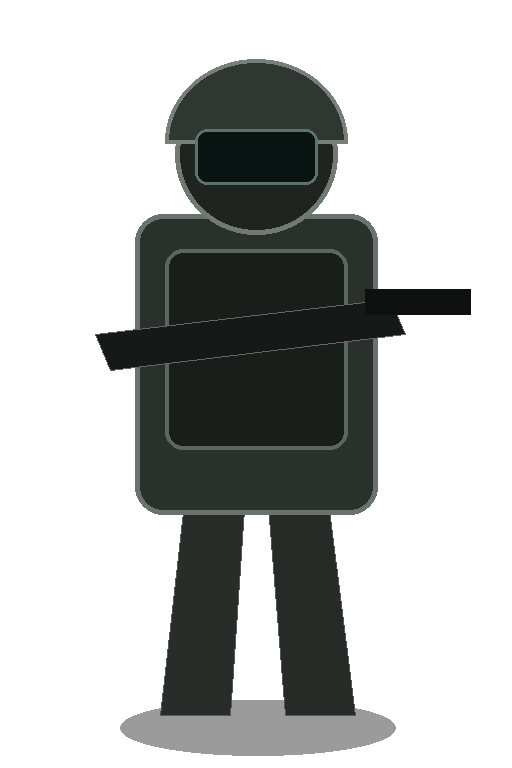
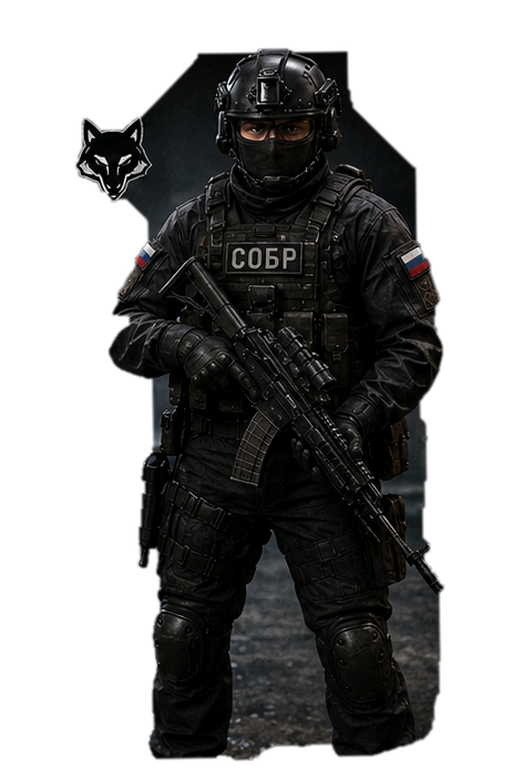
ver. 1.0

diff --git a/index.html b/index.html
@@ -18,7 +18,7 @@ button{font:inherit;color:#effff3;background:#14271b;border:1px solid #6c9878;pa
 @media(pointer:coarse),(max-width:900px){#touch{display:block}}@media(orientation:portrait) and (max-width:900px){#rotate{display:grid}}@media(max-width:700px){.menu{grid-template-columns:1fr}.portrait{max-height:38vh}}
 </style></head><body>
 <canvas id="g" width="960" height="540"></canvas>
-<section id="menu" class="screen"><div class="menu"><img class="portrait" src="assets/specter_portrait.jpg"><div><div class="sub">U.S. SPECIAL OPERATIONS</div><h1>SPECTER</h1><p class="brief">Power Restoration Update v0.9: the blacksite begins on emergency power. Locate the illuminated breaker beside the insertion point and press E to restore facility lighting. The lights flicker online by section, making navigation easier—but also making you easier for hostiles to spot.</p><div class="obj"><b>OPERATION BLACK VEIL</b><br>Eliminate all hostiles, recover the encrypted key, and reach extraction.</div><button id="start">BEGIN MISSION</button><button id="dos">DOSSIER</button><p class="small">Desktop: click to capture mouse, move horizontally and vertically to look, left-click fires, right-click or Q aims, WASD moves, R reloads, F toggles the flashlight, 1/2 swaps weapons, and E interacts with doors and power controls. Mobile controls remain available.</p></div></div></section>
+<section id="menu" class="screen"><div class="menu"><img class="portrait" src="assets/specter_portrait.jpg"><div><div class="sub">U.S. SPECIAL OPERATIONS</div><h1>SPECTER</h1><p class="brief">VOLK Enemy Model Update v1.0: hostile riflemen and heavy units now use the new VOLK Russian special-operations appearance, with black tactical armor, helmet systems, face coverings, AK-pattern rifles, Russian patches, and refreshed movement, firing, and fallen sprites. Facility power restoration remains active.</p><div class="obj"><b>OPERATION BLACK VEIL</b><br>Eliminate all hostiles, recover the encrypted key, and reach extraction.</div><button id="start">BEGIN MISSION</button><button id="dos">DOSSIER</button><p class="small">Desktop: click to capture mouse, move horizontally and vertically to look, left-click fires, right-click or Q aims, WASD moves, R reloads, F toggles the flashlight, 1/2 swaps weapons, and E interacts with doors and power controls. Mobile controls remain available.</p></div></div></section>
 <section id="dossier" class="screen hidden"><button id="back">RETURN</button><img src="assets/specter_turnaround.jpg"><img src="assets/specter_equipment.jpg"></section>
 <div id="rotate"><div><h2>ROTATE DEVICE</h2><p>Landscape orientation required.</p></div></div>
 <div id="touch"><div id="move" class="pad"><div class="ring"></div><div class="stick"></div></div><div id="look" class="pad"><div class="ring"></div><div class="stick"></div></div><div id="fire" class="btn">FIRE</div><div id="use" class="btn">USE</div><div id="reload" class="btn">R</div><div id="swap" class="btn">1/2</div><div id="aim" class="btn">AIM</div><div id="pause" class="btn">Ⅱ</div></div>

diff --git a/service-worker.js b/service-worker.js
@@ -1,4 +1,4 @@
-const CACHE='specter-v0.9-power';
+const CACHE='specter-v1.0-volk-enemies';
 const FILES=['./','./index.html','./manifest.webmanifest',
 './assets/wall_concrete.png','./assets/wall_steel.png','./assets/wall_red.png','./assets/floor.png','./assets/ceiling.png',
 './assets/enemy_rifle_0.png','./assets/enemy_rifle_1.png','./assets/enemy_rifle_2.png','./assets/enemy_rifle_dead.png',

diff --git a/README.md b/README.md
@@ -1,16 +1,17 @@
-# SPECTER: Blacksite v0.9 — Power Restoration
+# SPECTER: Blacksite v1.0 — VOLK Enemy Model Update
 
-Upload the entire folder contents to the root of the GitHub Pages repository. Keep the `assets` folder intact.
+This package replaces the previous hostile sprites with the VOLK Russian special-operations design supplied for the project.
 
-## New in v0.9
-- Facility starts on emergency power
-- Interactive industrial breaker beside spawn
-- Press **E** to restore lighting
-- Staged light startup with electrical flicker and power-on audio
-- Main dark room becomes illuminated after power restoration
-- HUD reports POWER OFFLINE / ONLINE
-- Flashlight remains independently toggleable with **F**
-- Corrected all asset paths to use the `assets/` folder
+## New in v1.0
 
-## Controls
-WASD move, mouse look, left click fire, right click/Q aim, R reload, F flashlight, E interact, 1/2 switch weapon.
+- New VOLK rifleman enemy appearance
+- New broader armored VOLK heavy appearance
+- Three animation frames for each living enemy type
+- Updated firing frames with muzzle flash
+- New fallen-enemy sprites
+- Black tactical uniforms, helmets, face coverings, armor carriers, pouches, Russian patches, and AK-pattern rifles
+- Existing power switch, vertical aim, accurate bullet impacts, ADS, flashlight, reload, desktop, and mobile controls preserved
+
+## Install
+
+Upload every extracted file and folder to the same GitHub Pages repository. Keep the `assets` folder intact beside `index.html`. If an older version appears after uploading, clear the browser site data once so the new service-worker cache can replace the previous build.
